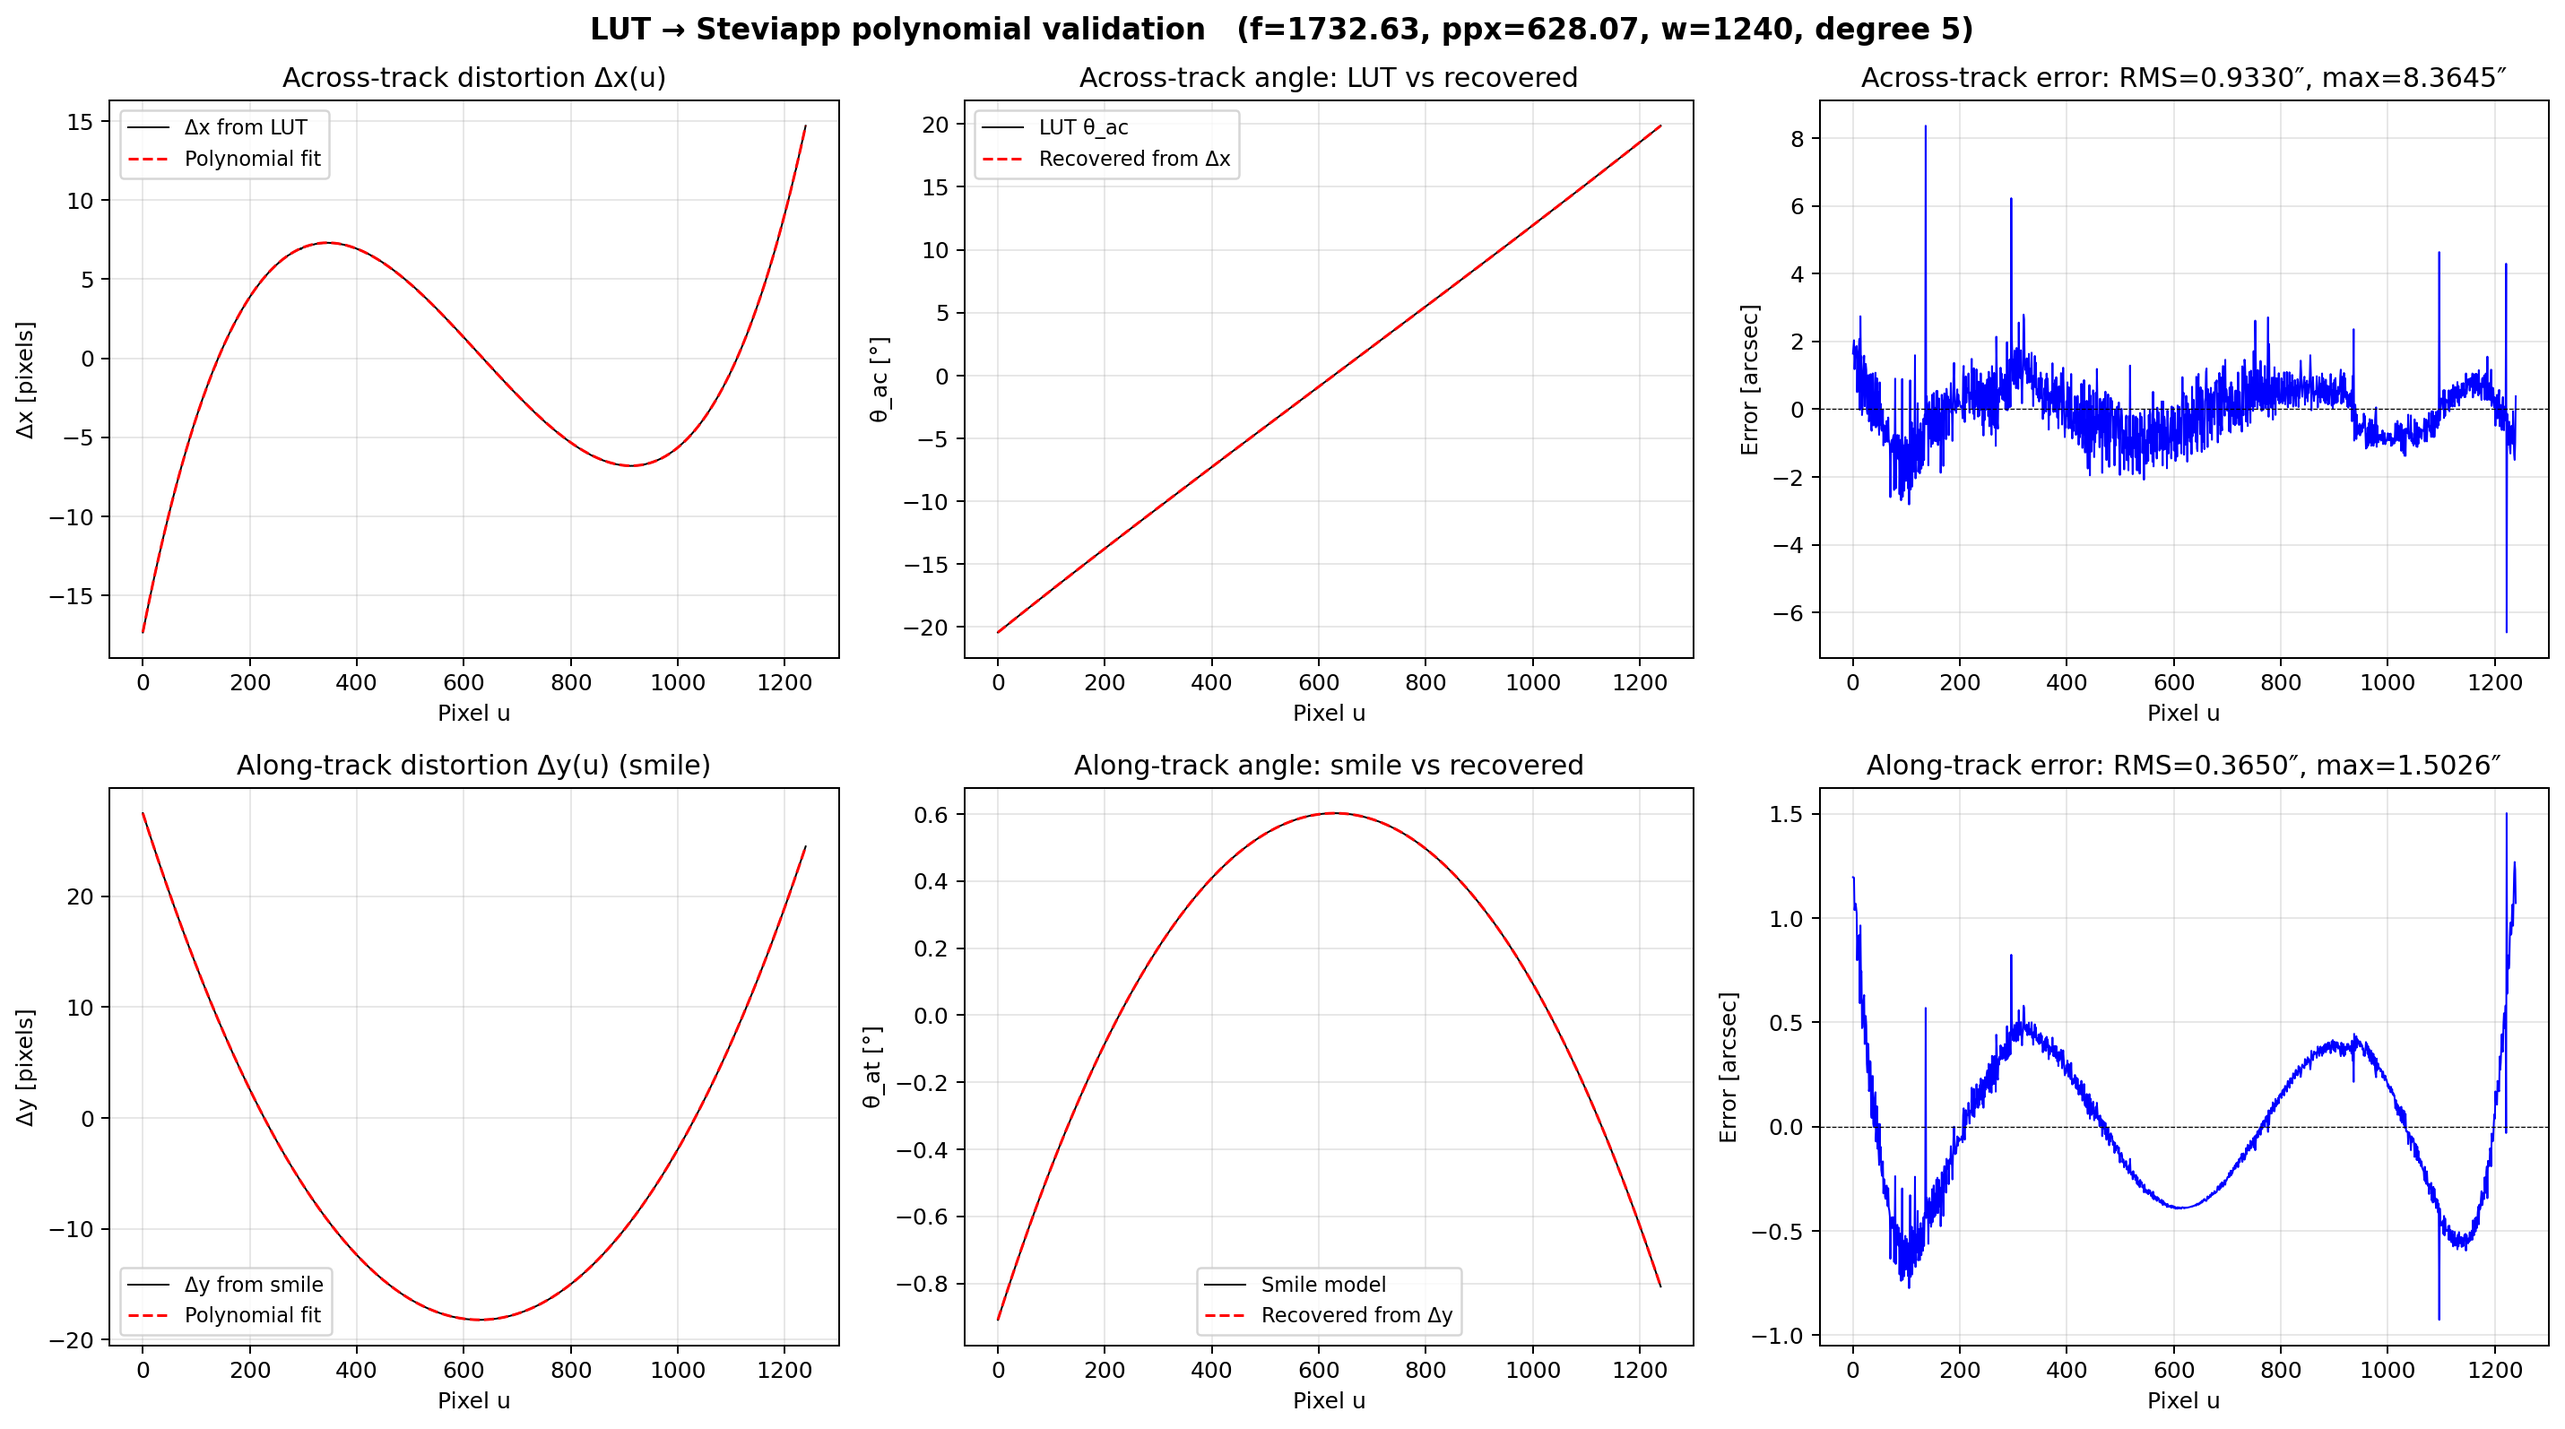
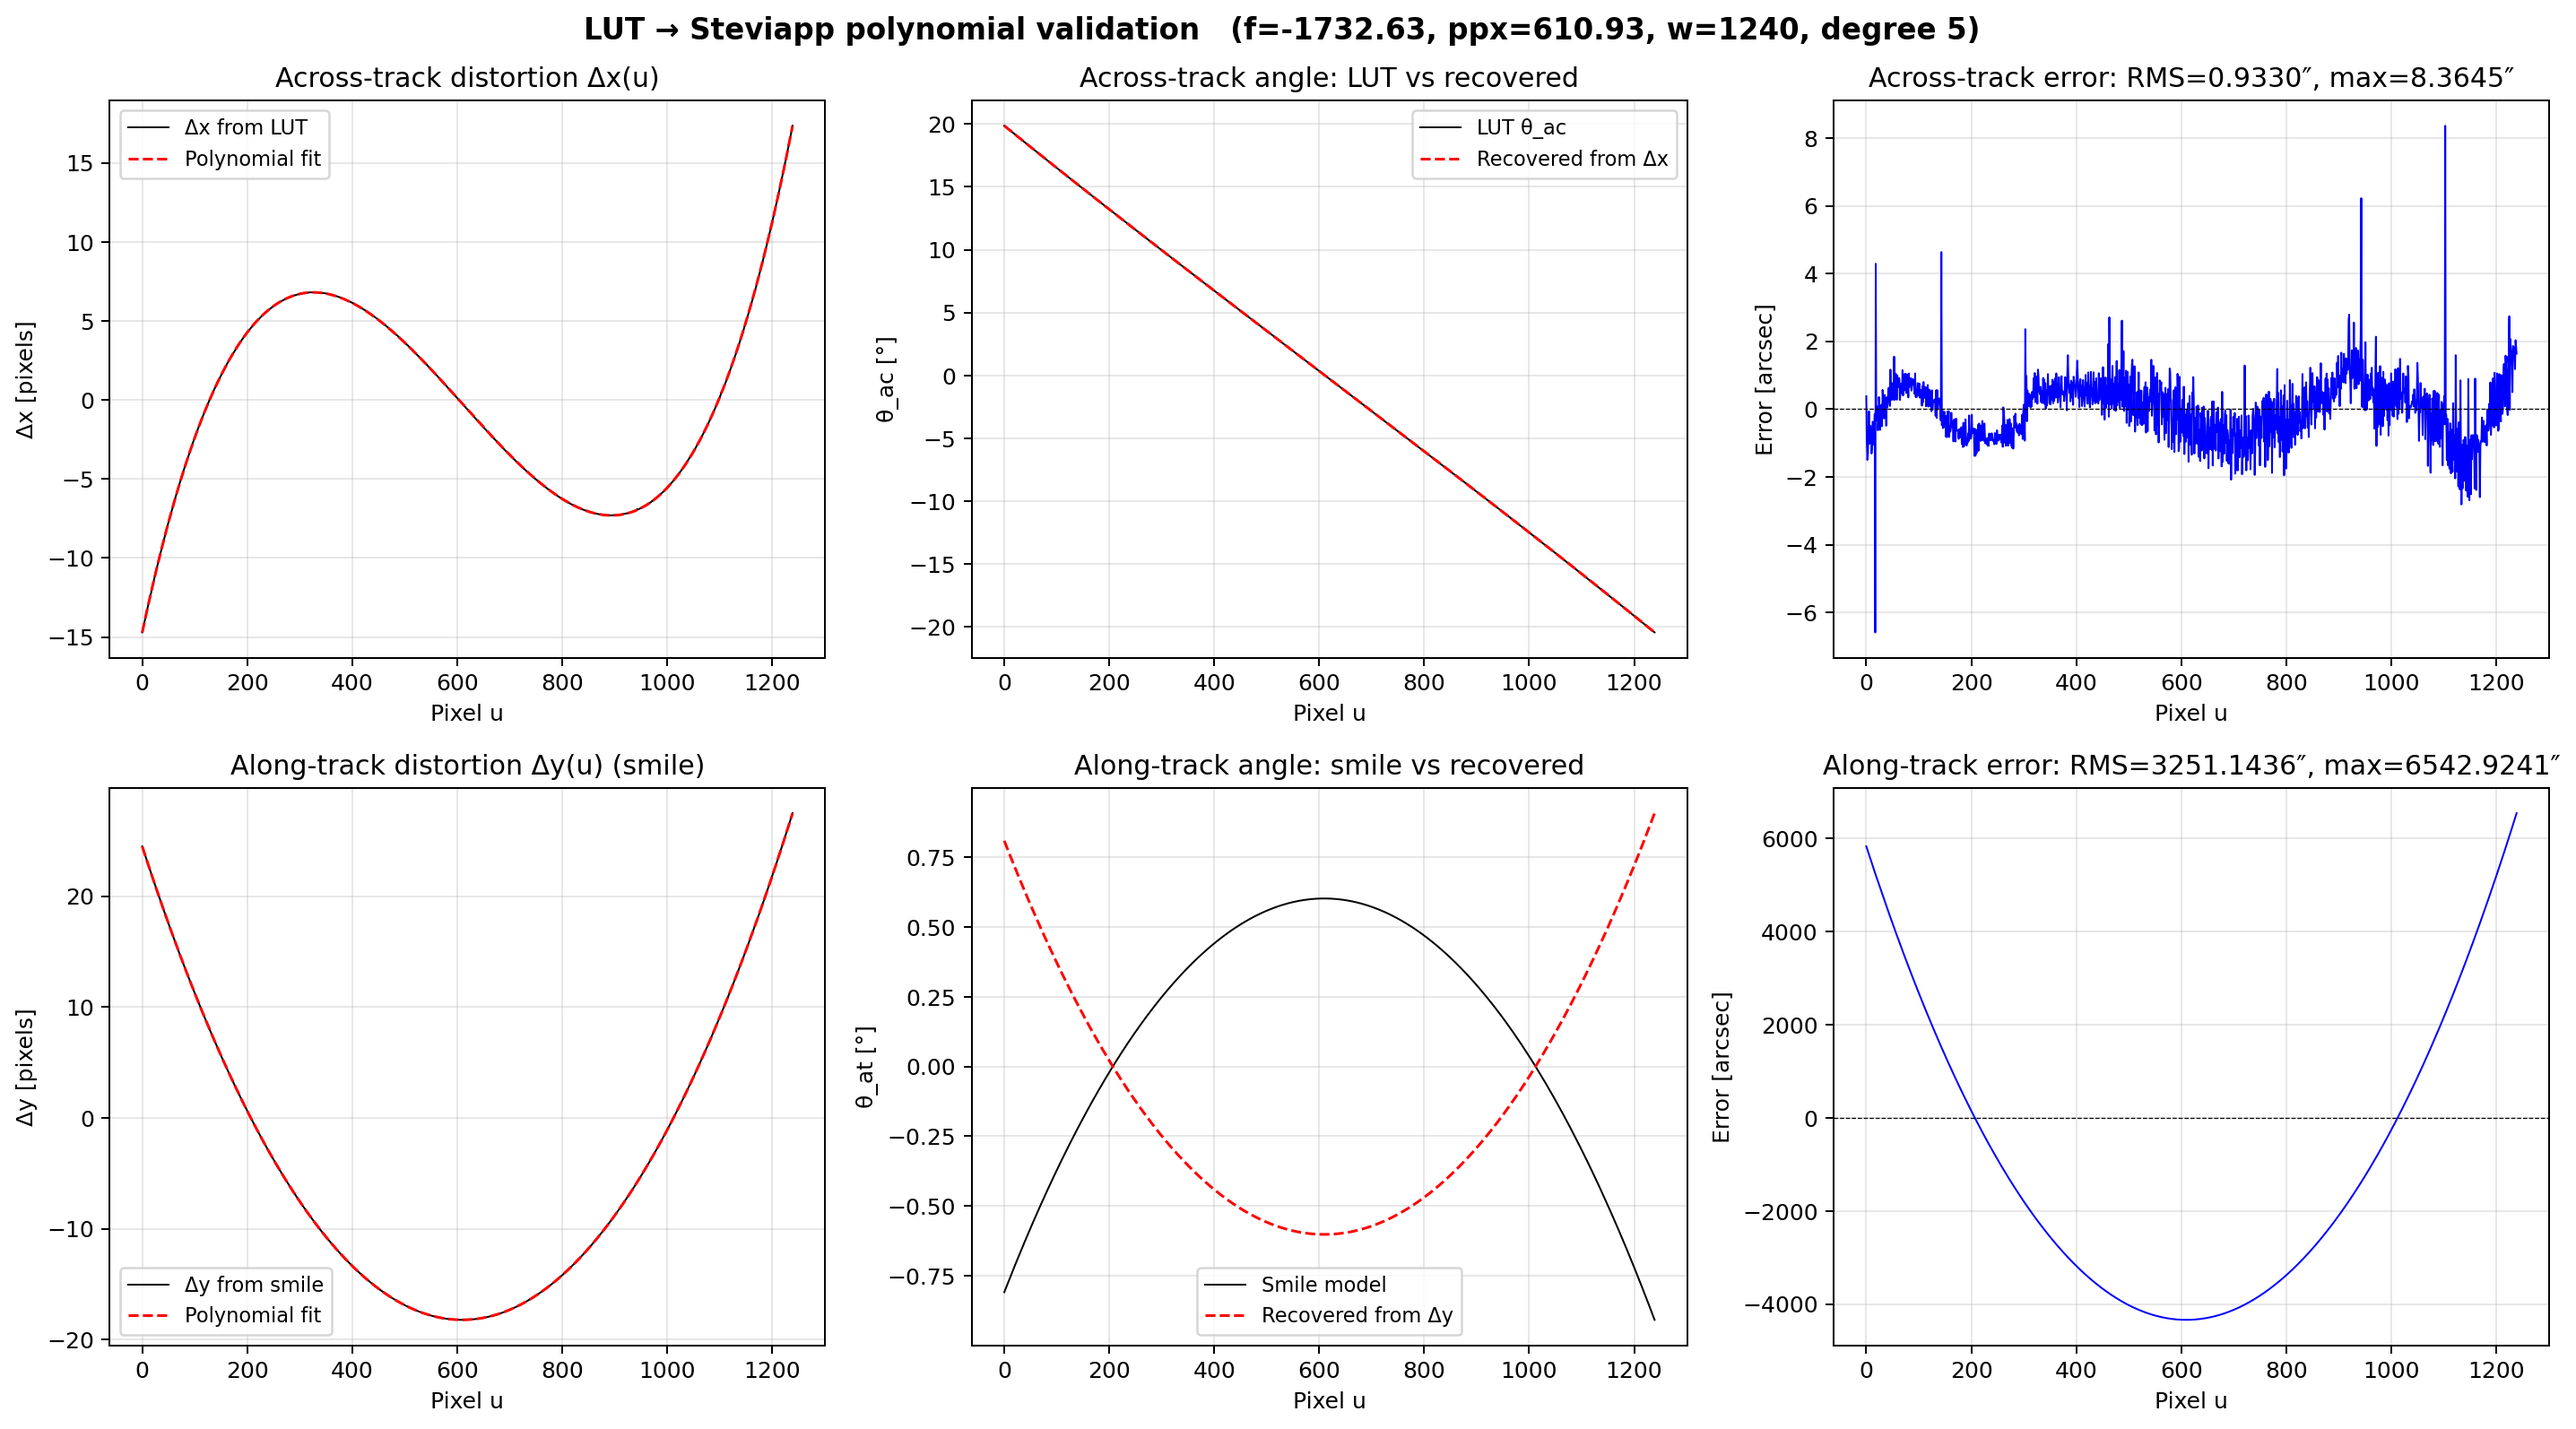
update orthorect

diff --git a/Orthorectify/pushbroom_ortho_stevi_model/pipeline/lut_to_steviapp.py b/Orthorectify/pushbroom_ortho_stevi_model/pipeline/lut_to_steviapp.py
@@ -95,7 +95,7 @@ def angles_to_distortion(angles_deg, f, ppx):
     # Along-track: smile evaluated at each pixel's across-track angle
     smile_deg = SMILE_A * angles_deg**2 + SMILE_B * angles_deg + SMILE_C
     # Negate: smile calibration is Y-forward, camera is Y-back
-    delta_y = -f * np.tan(np.deg2rad(smile_deg))
+    delta_y = f * np.tan(np.deg2rad(smile_deg))
 
     print(f"\nPixel-space distortion:")
     print(f"  Δx: [{delta_x.min():+.4f}, {delta_x.max():+.4f}] px, "
@@ -341,12 +341,15 @@ def main():
 
     # ---- Step 1: Load LUT ----
     angles_deg = load_lut(ANGLE_LUT_PATH)
+    # change order of angles_deg
+    angles_deg = angles_deg[::-1]
     fov = angles_deg[-1] - angles_deg[0]
     w = len(angles_deg)
     u = np.arange(w, dtype=np.float64)
 
     # ---- Step 2: Estimate optimal pinhole parameters ----
     f, ppx = estimate_pinhole(angles_deg, w)
+    #f *= -1
     #f = compute_focal_length(fov, w)
 
     # ---- Step 3: Convert angles → pixel-space distortion ----

diff --git a/camera_models/estimate_brown_model.py b/camera_models/estimate_brown_model.py
@@ -191,7 +191,7 @@ if __name__ == "__main__":
     px = np.arange(0, 1280, 1)
 
     # Get CHB measurements
-    data = loadmat('/media/addLidar/AVIRIS_4_Mission_Processing/AV4_Camera_Model_Data/AV4_acrosstrack_PSF_2024.mat')
+    data = loadmat('/media/addLidar/AVIRIS_4_Mission_Processing/AV4_Camera_Model_Data/DLR_Lab_Model/AV4_acrosstrack_PSF_2024.mat')
     angles = np.array(data['AV4_acrosstrack_PSF']['angles'])[:, 0]
 
     #write angles to csv
@@ -211,7 +211,7 @@ if __name__ == "__main__":
 
     # select pixels with FWHM > 0
     #num_pixels = len(px)
-    valid_indices = np.where(fwhms > 0.025)[0][2:-2]
+    valid_indices = np.where(fwhms > 0.022)[0]#[2:-2]
     
     # plot fwhm filtered
      
